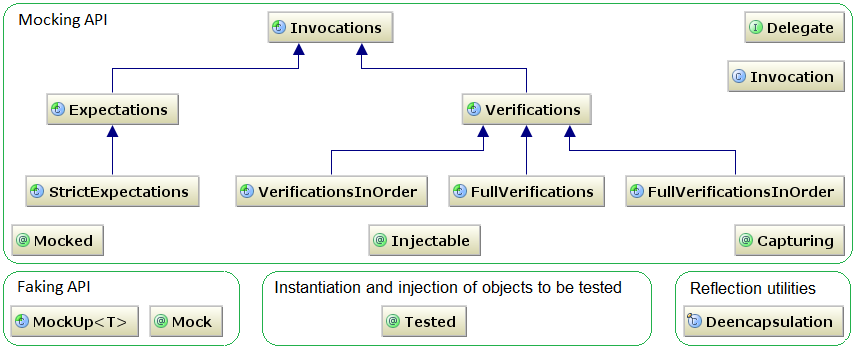
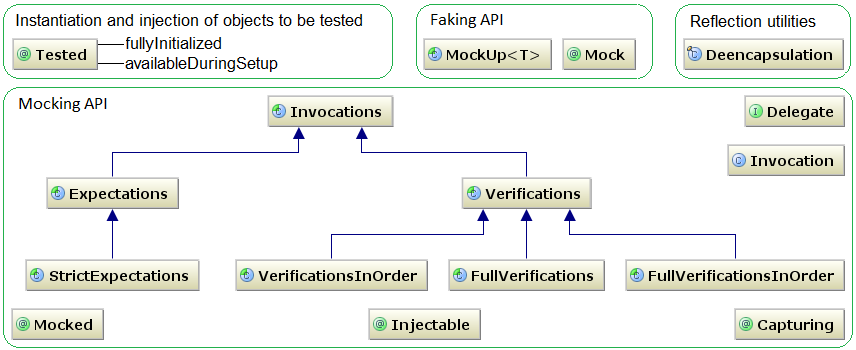
Some documentation improvements and reorganization.

diff --git a/api1x/overview-summary.html b/api1x/overview-summary.html
@@ -94,7 +94,7 @@
 <tr class="altColor">
 <td class="colFirst"><a href="mockit/package-summary.html">mockit</a></td>
 <td class="colLast">
-<div class="block">Provides the classes and annotations used when writing tests with the JMockit mocking and faking APIs.</div>
+<div class="block">Provides the classes and annotations used when writing tests with the JMockit APIs.</div>
 </td>
 </tr>
 <tr class="rowColor">
@@ -118,32 +118,29 @@
 </a>
 <div class="block"><p>
    JMockit is a Java toolkit for automated developer testing.
-   The figure below provides an overview of the available mocking and faking APIs.
+   The figure below provides an overview of the available APIs.
    Clicking on individual items will navigate to the corresponding API documentation or Tutorial pages.
 </p>
 <div style="text-align: center" title="Click on the types or titles to open associated documentation">
    <map name="figure1">
-      <area shape="rect" coords="17,13,106,29" href="../tutorial/Mocking.html" target="mocking">
-      <area shape="rect" coords="45,92,179,125" href="mockit/Expectations.html">
-      <area shape="rect" coords="24,174,199,207" href="mockit/StrictExpectations.html">
-      <area shape="rect" coords="460,92,592,125" href="mockit/Verifications.html">
-      <area shape="rect" coords="234,174,428,207" href="mockit/VerificationsInOrder.html">
-      <area shape="rect" coords="447,174,605,207" href="mockit/FullVerifications.html">
-      <area shape="rect" coords="624,174,845,207" href="mockit/FullVerificationsInOrder.html">
-      <area shape="rect" coords="743,10,845,43" href="mockit/Delegate.html">
-      <area shape="rect" coords="726,59,845,92" href="mockit/Invocation.html">
-      <area shape="rect" coords="369,224,480,256" href="mockit/Injectable.html">
-      <area shape="rect" coords="11,224,103,256" href="mockit/Mocked.html">
-      <area shape="rect" coords="733,224,845,256" href="mockit/Capturing.html">
-
-      <area shape="rect" coords="274,279,620,296" href="../tutorial/EnterpriseApplications.html" target="tested">
-      <area shape="rect" coords="380,304,467,337" href="mockit/Tested.html">
-
-      <area shape="rect" coords="17,279,89,296" href="../tutorial/Faking.html" target="faking">
-      <area shape="rect" coords="9,304,138,337" href="mockit/MockUp.html">
-      <area shape="rect" coords="148,304,224,337" href="mockit/Mock.html">
-
-      <area shape="rect" coords="684,304,843,337" href="mockit/Deencapsulation.html">
+      <area shape="rect" coords="14,12,362,28" href="../tutorial/EnterpriseApplications.html" target="tested">
+      <area shape="rect" coords="11,37,98,71" href="mockit/Tested.html">
+      <area shape="rect" coords="17,96,106,112" href="../tutorial/Mocking.html" target="mocking">
+      <area shape="rect" coords="45,176,179,209" href="mockit/Expectations.html">
+      <area shape="rect" coords="24,258,199,291" href="mockit/StrictExpectations.html">
+      <area shape="rect" coords="460,176,592,209" href="mockit/Verifications.html">
+      <area shape="rect" coords="234,258,428,291" href="mockit/VerificationsInOrder.html">
+      <area shape="rect" coords="447,258,605,291" href="mockit/FullVerifications.html">
+      <area shape="rect" coords="624,258,845,291" href="mockit/FullVerificationsInOrder.html">
+      <area shape="rect" coords="743,94,845,127" href="mockit/Delegate.html">
+      <area shape="rect" coords="726,143,845,176" href="mockit/Invocation.html">
+      <area shape="rect" coords="369,308,480,340" href="mockit/Injectable.html">
+      <area shape="rect" coords="11,308,103,340" href="mockit/Mocked.html">
+      <area shape="rect" coords="733,308,845,340" href="mockit/Capturing.html">
+      <area shape="rect" coords="428,12,503,28" href="../tutorial/Faking.html" target="faking">
+      <area shape="rect" coords="422,37,552,71" href="mockit/MockUp.html">
+      <area shape="rect" coords="561,37,636,71" href="mockit/Mock.html">
+      <area shape="rect" coords="682,37,844,71" href="mockit/Deencapsulation.html">
    </map>
    <img src="../toolkit.png" style="border: none;" usemap="overview.html#figure1">
    <br>

diff --git a/api1x/mockit/package-summary.html b/api1x/mockit/package-summary.html
@@ -72,7 +72,7 @@
 <div class="header">
 <h1 title="Package" class="title">Package&nbsp;mockit</h1>
 <div class="docSummary">
-<div class="block">Provides the classes and annotations used when writing tests with the JMockit mocking and faking APIs.</div>
+<div class="block">Provides the classes and annotations used when writing tests with the JMockit APIs.</div>
 </div>
 <p>See:&nbsp;<a href="#package.description">Description</a></p>
 </div>
@@ -219,17 +219,33 @@
 <!--   -->
 </a>
 <h2 title="Package mockit Description">Package mockit Description</h2>
-<div class="block">Provides the classes and annotations used when writing tests with the JMockit mocking and faking APIs.
+<div class="block">Provides the classes and annotations used when writing tests with the JMockit APIs.
+ <p/>
+ The <a href="../mockit/Tested.html" title="annotation in mockit">@Tested</a> annotation allows for the instantiation of classes under test, with the
+ injection and/or recursive instantiation of dependencies.
+ It can inject mocked instances when used in combination with the <a href="../mockit/Injectable.html" title="annotation in mockit">@Injectable</a> mocking
+ annotation, and also inject <em>non-mocked</em> (real) instances when applied as
+ <code>@Tested(fullyInitialized = true)</code>.
+ Non-mocked instances are either automatically created or obtained from other <code>@Tested</code> fields.
  <p/>
  The <a href="../mockit/Expectations.html" title="class in mockit"><code>Expectations</code></a> class provides an API for the <em>record-replay</em> model of recording expected
  invocations which are later replayed and implicitly verified.
- This API makes use of the <a href="../mockit/Mocked.html" title="annotation in mockit">@Mocked</a> annotation (among others).
+ This API makes use of the <a href="../mockit/Mocked.html" title="annotation in mockit">@Mocked</a>, <a href="../mockit/Injectable.html" title="annotation in mockit">@Injectable</a>, and
+ <a href="../mockit/Capturing.html" title="annotation in mockit">@Capturing</a> <em>mocking</em> annotations.
  The <a href="../mockit/Verifications.html" title="class in mockit"><code>Verifications</code></a> class extends the record-replay model to a <em>record-replay-verify</em> model,
  where expectations that were not recorded can be verified explicitly <em>after</em> exercising the code under test
  (ie, after the replay phase).
+ The <a href="../mockit/Invocation.html" title="class in mockit"><code>Invocation</code></a> class and the <a href="../mockit/Delegate.html" title="interface in mockit"><code>Delegate</code></a> interface are also part of this API; they can be
+ used for recording expectations with custom results, and for the implementation of custom argument matchers.
  <p/>
- The <a href="../mockit/MockUp.html" title="class in mockit"><code>MockUp&lt;T></code></a> generic class (where <code>T</code> is the mocked type) allows
- the definition of fake implementations for external classes or interfaces.
+ <a href="../mockit/MockUp.html" title="class in mockit"><code>MockUp&lt;T></code></a> is a generic base class (where <code>T</code> is the type to be
+ faked) which allows the definition of fake implementations for external classes or interfaces.
+ Methods in a mock-up subclass that take the place of the "real" methods in class <code>T</code> are indicated with the
+ <a href="../mockit/Mock.html" title="annotation in mockit">@Mock</a> annotation.
+ Such methods can also (optionally) have an <a href="../mockit/Invocation.html" title="class in mockit"><code>Invocation</code></a> parameter.
+ <p/>
+ Finally, the <a href="../mockit/Deencapsulation.html" title="class in mockit"><code>Deencapsulation</code></a> class provides several Reflection-based utility methods, for the
+ occasional cases where a <code>private</code> field needs to be accessed, etc.
  <p/>
  For a description with examples of the <em>Expectations</em> API, see the
  "<a href="http://jmockit.org/tutorial/Mocking.html">Mocking</a>" chapter in the Tutorial.

diff --git a/api1x/overview.html b/api1x/overview.html
@@ -7,32 +7,29 @@
 <body>
 <p>
    JMockit is a Java toolkit for automated developer testing.
-   The figure below provides an overview of the available mocking and faking APIs.
+   The figure below provides an overview of the available APIs.
    Clicking on individual items will navigate to the corresponding API documentation or Tutorial pages.
 </p>
 <div style="text-align: center" title="Click on the types or titles to open associated documentation">
    <map name="figure1">
-      <area shape="rect" coords="17,13,106,29" href="../tutorial/Mocking.html" target="mocking">
-      <area shape="rect" coords="45,92,179,125" href="mockit/Expectations.html">
-      <area shape="rect" coords="24,174,199,207" href="mockit/StrictExpectations.html">
-      <area shape="rect" coords="460,92,592,125" href="mockit/Verifications.html">
-      <area shape="rect" coords="234,174,428,207" href="mockit/VerificationsInOrder.html">
-      <area shape="rect" coords="447,174,605,207" href="mockit/FullVerifications.html">
-      <area shape="rect" coords="624,174,845,207" href="mockit/FullVerificationsInOrder.html">
-      <area shape="rect" coords="743,10,845,43" href="mockit/Delegate.html">
-      <area shape="rect" coords="726,59,845,92" href="mockit/Invocation.html">
-      <area shape="rect" coords="369,224,480,256" href="mockit/Injectable.html">
-      <area shape="rect" coords="11,224,103,256" href="mockit/Mocked.html">
-      <area shape="rect" coords="733,224,845,256" href="mockit/Capturing.html">
-
-      <area shape="rect" coords="274,279,620,296" href="../tutorial/EnterpriseApplications.html" target="tested">
-      <area shape="rect" coords="380,304,467,337" href="mockit/Tested.html">
-
-      <area shape="rect" coords="17,279,89,296" href="../tutorial/Faking.html" target="faking">
-      <area shape="rect" coords="9,304,138,337" href="mockit/MockUp.html">
-      <area shape="rect" coords="148,304,224,337" href="mockit/Mock.html">
-
-      <area shape="rect" coords="684,304,843,337" href="mockit/Deencapsulation.html">
+      <area shape="rect" coords="14,12,362,28" href="../tutorial/EnterpriseApplications.html" target="tested">
+      <area shape="rect" coords="11,37,98,71" href="mockit/Tested.html">
+      <area shape="rect" coords="17,96,106,112" href="../tutorial/Mocking.html" target="mocking">
+      <area shape="rect" coords="45,176,179,209" href="mockit/Expectations.html">
+      <area shape="rect" coords="24,258,199,291" href="mockit/StrictExpectations.html">
+      <area shape="rect" coords="460,176,592,209" href="mockit/Verifications.html">
+      <area shape="rect" coords="234,258,428,291" href="mockit/VerificationsInOrder.html">
+      <area shape="rect" coords="447,258,605,291" href="mockit/FullVerifications.html">
+      <area shape="rect" coords="624,258,845,291" href="mockit/FullVerificationsInOrder.html">
+      <area shape="rect" coords="743,94,845,127" href="mockit/Delegate.html">
+      <area shape="rect" coords="726,143,845,176" href="mockit/Invocation.html">
+      <area shape="rect" coords="369,308,480,340" href="mockit/Injectable.html">
+      <area shape="rect" coords="11,308,103,340" href="mockit/Mocked.html">
+      <area shape="rect" coords="733,308,845,340" href="mockit/Capturing.html">
+      <area shape="rect" coords="428,12,503,28" href="../tutorial/Faking.html" target="faking">
+      <area shape="rect" coords="422,37,552,71" href="mockit/MockUp.html">
+      <area shape="rect" coords="561,37,636,71" href="mockit/Mock.html">
+      <area shape="rect" coords="682,37,844,71" href="mockit/Deencapsulation.html">
    </map>
    <img src="../toolkit.png" style="border: none;" usemap="overview.html#figure1">
    <br>

diff --git a/api1x/mockit/integration/junit4/package-summary.html b/api1x/mockit/integration/junit4/package-summary.html
@@ -101,22 +101,32 @@
 </a>
 <h2 title="Package mockit.integration.junit4 Description">Package mockit.integration.junit4 Description</h2>
 <div class="block">Provides integration with <em>JUnit 4.x</em> test runners, for version 4.5 or newer.
- Contains the <a href="../../../mockit/integration/junit4/JMockit.html" title="class in mockit.integration.junit4"><code>JMockit</code></a> custom class runner.
+ Contains the <a href="../../../mockit/integration/junit4/JMockit.html" title="class in mockit.integration.junit4"><code>JMockit</code></a> custom test runner (which is not an actual test runner, but
+ just a way to ensure that JMockit gets properly initialized - a better way is to simply put <code>jmockit.jar</code>
+ <em>before</em> <code>junit.jar</code> in the test runtime classpath).
  <p/>
  This integration provides the following benefits to test code:
  <ol>
- <li>
- Expected invocations specified through the Expectations API are automatically verified before the execution of a test
- is completed.
- </li>
- <li>
- Mock-up classes applied with the Mockups API from inside a method annotated as a <code>@Test</code> or a <code>@Before</code>
- method are discarded right after the execution of the test method or the whole test, respectively.
- </li>
- <li>
- Test methods accept <em>mock parameters</em>, whose values are mocked instances automatically created by JMockit and
- passed by the test runner when the test method is executed.
- </li>
+    <li>
+       Instance fields annotated with <code>@Tested</code>, <code>@Injectable</code>, <code>@Mocked</code>, or <code>@Capturing</code>
+       are properly initialized.
+    </li>
+    <li>
+       Test methods accept <em>mock parameters</em> (annotated with <code>@Injectable</code>, <code>@Mocked</code>, or
+       <code>@Capturing</code>), whose values are mocked instances automatically created by JMockit and passed by the test
+       runner when the test method is executed.
+    </li>
+    <li>
+       Expected invocations specified through the Expectations API are automatically verified before the execution of
+       a test is completed.
+    </li>
+    <li>
+       Mock-up classes applied with the Mockups API from inside a method annotated as a <code>@Test</code> or a
+       <code>@Before</code> method are discarded right after the execution of the test method or the whole test,
+       respectively.
+       Similarly, mock-ups applied from a <code>@BeforeClass</code> method are discarded after all tests in a test class
+       have executed.
+    </li>
  </ol></div>
 </div>
 <!-- ======= START OF BOTTOM NAVBAR ====== -->

diff --git a/tutorial.html b/tutorial.html
@@ -31,6 +31,13 @@
       </ol>
    </li>
    <li>
+      <a href="tutorial/EnterpriseApplications.html">Testing enterprise applications</a>
+      <ol>
+         <li><a href="tutorial/EnterpriseApplications.html#anExample">An example</a></li>
+         <li><a href="tutorial/EnterpriseApplications.html#trade-offs">Trade-offs of the approach</a></li>
+      </ol>
+   </li>
+   <li>
       <a href="tutorial/Mocking.html">Mocking</a>
       <ol>
          <li><a href="tutorial/Mocking.html#mocked">Mocked types and instances</a></li>
@@ -63,13 +70,6 @@
          <li><a href="tutorial/Faking.html#reuse">Reusing mock-ups between tests</a></li>
          <li><a href="tutorial/Faking.html#widerScopes">Global mock-ups</a></li>
          <li><a href="tutorial/Faking.html#advice">Applying AOP-style advice</a></li>
-      </ol>
-   </li>
-   <li>
-      <a href="tutorial/EnterpriseApplications.html">Testing enterprise applications</a>
-      <ol>
-         <li><a href="tutorial/EnterpriseApplications.html#anExample">An example</a></li>
-         <li><a href="tutorial/EnterpriseApplications.html#trade-offs">Trade-offs of the approach</a></li>
       </ol>
    </li>
    <li>

diff --git a/tutorial/EnterpriseApplications.html b/tutorial/EnterpriseApplications.html
@@ -17,8 +17,8 @@
    <a href="../index.html">JMockit</a>
    <span>An automated testing toolkit for Java</span>
    <span class="navigation">
-      <a href="Faking.html"><img src="go-previous.png" title="Previous chapter"></a>
-      <a href="CodeCoverage.html"><img src="go-next.png" title="Next chapter"></a>
+      <a href="Introduction.html"><img src="go-previous.png" title="Previous chapter"></a>
+      <a href="Mocking.html"><img src="go-next.png" title="Next chapter"></a>
       <a href="../tutorial.html"><img src="go-home.png" title="Contents"></a>
    </span>
 </h1>
@@ -314,8 +314,8 @@ public @interface SUT {} // the System Under Test
 </p>
 
 <div id="bottom" class="navigation">
-   <a href="Faking.html"><img src="go-previous.png" title="Previous chapter"></a>
-   <a href="CodeCoverage.html"><img src="go-next.png" title="Next chapter"></a>
+   <a href="Introduction.html"><img src="go-previous.png" title="Previous chapter"></a>
+   <a href="Mocking.html"><img src="go-next.png" title="Next chapter"></a>
    <a href="../tutorial.html"><img src="go-home.png" title="Contents"></a>
 </div>
 </body>

diff --git a/tutorial/Mocking.html b/tutorial/Mocking.html
@@ -17,7 +17,7 @@
    <a href="../index.html">JMockit</a>
    <span>An automated testing toolkit for Java</span>
    <span class="navigation">
-      <a href="Introduction.html"><img src="go-previous.png" title="Previous chapter"></a>
+      <a href="EnterpriseApplications.html"><img src="go-previous.png" title="Previous chapter"></a>
       <a href="Faking.html"><img src="go-next.png" title="Next chapter"></a>
       <a href="../tutorial.html"><img src="go-home.png" title="Contents"></a>
    </span>
@@ -1912,7 +1912,7 @@ public void testWithDifferentBehaviorForFirstNewInstanceAndRemainingNewInstances
 </p>
 
 <div id="bottom" class="navigation">
-   <a href="Introduction.html"><img src="go-previous.png" title="Previous chapter"></a>
+   <a href="EnterpriseApplications.html"><img src="go-previous.png" title="Previous chapter"></a>
    <a href="Faking.html"><img src="go-next.png" title="Next chapter"></a>
    <a href="../tutorial.html"><img src="go-home.png" title="Contents"></a>
 </div>

diff --git a/tutorial/Faking.html b/tutorial/Faking.html
@@ -18,7 +18,7 @@
    <span>An automated testing toolkit for Java</span>
    <span class="navigation">
       <a href="Mocking.html"><img src="go-previous.png" title="Previous chapter"></a>
-      <a href="EnterpriseApplications.html"><img src="go-next.png" title="Next chapter"></a>
+      <a href="CodeCoverage.html"><img src="go-next.png" title="Next chapter"></a>
       <a href="../tutorial.html"><img src="go-home.png" title="Contents"></a>
    </span>
 </h1>
@@ -663,7 +663,7 @@ public final class TestSuite
 
 <div id="bottom" class="navigation">
    <a href="Mocking.html"><img src="go-previous.png" title="Previous chapter"></a>
-   <a href="EnterpriseApplications.html"><img src="go-next.png" title="Next chapter"></a>
+   <a href="CodeCoverage.html"><img src="go-next.png" title="Next chapter"></a>
    <a href="../tutorial.html"><img src="go-home.png" title="Contents"></a>
 </div>
 </body>

diff --git a/tutorial/CodeCoverage.html b/tutorial/CodeCoverage.html
@@ -17,7 +17,7 @@
    <a href="../index.html">JMockit</a>
    <span>An automated testing toolkit for Java</span>
    <span class="navigation">
-      <a href="EnterpriseApplications.html"><img src="go-previous.png" title="Previous chapter"></a>
+      <a href="Faking.html"><img src="go-previous.png" title="Previous chapter"></a>
       <a href="../tutorial.html"><img src="go-home.png" title="Contents"></a>
    </span>
 </h1>
@@ -607,7 +607,7 @@ jmockit-${jmockit.version}.jar=coverage</strong>
 </p>
 
 <div id="bottom" class="navigation">
-   <a href="EnterpriseApplications.html"><img src="go-previous.png" title="Previous chapter"></a>
+   <a href="Faking.html"><img src="go-previous.png" title="Previous chapter"></a>
    <a href="../tutorial.html"><img src="go-home.png" title="Contents"></a>
 </div>
 </body>

diff --git a/tutorial/Introduction.html b/tutorial/Introduction.html
@@ -454,7 +454,7 @@ public final class MyBusinessServiceTest
 </p>
 
 <div id="bottom" class="navigation">
-   <a href="Mocking.html"><img src="go-next.png" title="Next chapter"></a>
+   <a href="EnterpriseApplications.html"><img src="go-next.png" title="Next chapter"></a>
    <a href="../tutorial.html"><img src="go-home.png" title="Contents"></a>
 </div>
 </body>
